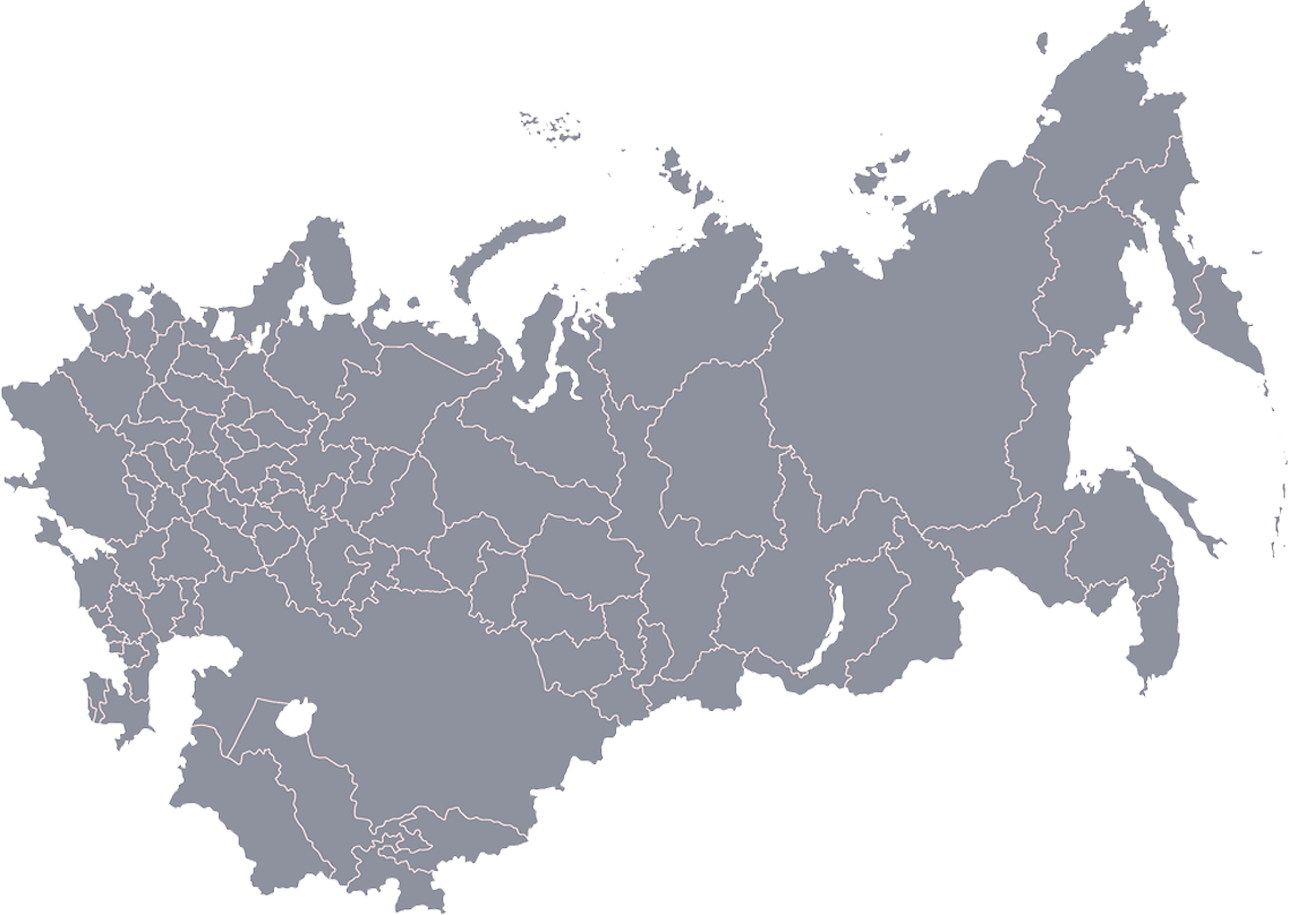
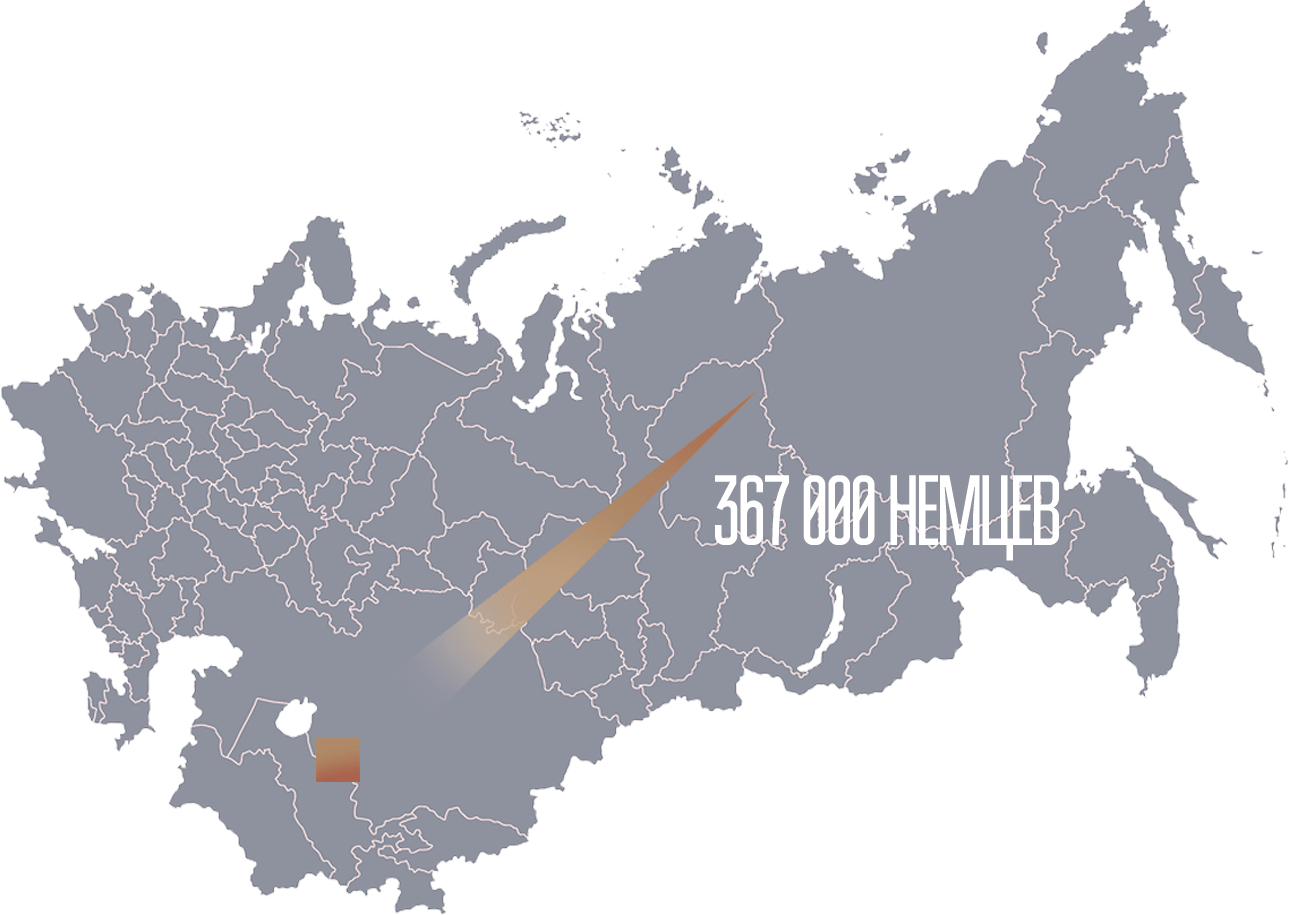
Deportation page animations (#32)
* style changes

* animation prototype

* complete document animation

* map text animation

* apply new images

* calendar animation

* text animation

* fix styles

diff --git a/src/js/deportation-page.js b/src/js/deportation-page.js
@@ -1,8 +1,23 @@
 import debounce from "./debounce";
+import wait from "./wait";
 
 const slidesCount = $('.deportation-page__slide').length;
 let currentSlide = 1;
 const windowHeight = $(window).height();
+
+const mapDocument = $(".deportation-map__document");
+const slidersWrap = $(".deportation-page__sliders-wrap");
+const mapText = $(".deportation-map__text");
+mapText.addClass('deportation-map__text--hidden');
+
+const documentText = $('.deportation-document__text');
+documentText.addClass('deportation-document__text--hidden');
+
+const calendars = $('.calendar');
+calendars.addClass('calendar--hidden');
+
+const calendar28 = $('#calendar28');
+const calendar8 = $('#calendar8');
 
 /**
  * Changes slide on scroll
@@ -21,22 +36,106 @@ function changeSlideOnMouseWheel(event) {
 /**
  * Goes to next slide
  */
-function nextSlide() {
+async function nextSlide() {
   const canGoNext = currentSlide >= 1 && currentSlide <= slidesCount - 1;
   if (canGoNext) {
     currentSlide++;
-    $(".deportation-page__sliders-wrap").css('transform', `translateY(-${windowHeight * (currentSlide - 1)}px)`);
+
+    if (currentSlide === 2) {
+      slidersWrap.css('transform', `translateY(-${windowHeight * (currentSlide - 1)}px)`);
+
+      await wait(500);
+      mapDocument.removeClass('deportation-map__document--not-visible');
+
+      mapDocument.removeClass('deportation-map__document--hidden-top');
+      mapDocument.addClass('deportation-map__document--normal');
+
+      mapText.removeClass('deportation-map__text--hidden');
+      calendar28.removeClass('calendar--hidden');
+      calendar28.removeClass('calendar--not-visible');
+    }
+
+    if (currentSlide === 3) {
+      mapDocument.removeClass('deportation-map__document--normal');
+      mapDocument.addClass('deportation-map__document--hidden-bottom');
+      mapText.addClass('deportation-map__text--hidden');
+      calendar28.addClass('calendar--hidden');
+
+      await wait(1000);
+      calendar28.addClass('calendar--not-visible');
+      mapDocument.addClass('deportation-map__document--not-visible');
+      slidersWrap.css('transform', `translateY(-${windowHeight * (currentSlide - 1)}px)`);
+      await wait(500);
+      calendar8.removeClass('calendar--not-visible');
+      documentText.removeClass('deportation-document__text--hidden');
+      calendar8.removeClass('calendar--hidden');
+      return;
+    }
+
+    if (currentSlide === 4) {
+      calendar8.addClass('calendar--hidden');
+      documentText.addClass('deportation-document__text--hidden');
+
+      await wait(500);
+      calendar8.addClass('calendar--not-visible');
+      slidersWrap.css('transform', `translateY(-${windowHeight * (currentSlide - 1)}px)`);
+      await wait(500);
+
+      return;
+    }
+
+    slidersWrap.css('transform', `translateY(-${windowHeight * (currentSlide - 1)}px)`);
   }
 }
 
 /**
  * Goes to previous slide
  */
-function previousSlide() {
+async function previousSlide() {
   const canGoPrevious = currentSlide >= 2 && currentSlide <= slidesCount;
   if (canGoPrevious) {
     currentSlide--;
-    $(".deportation-page__sliders-wrap").css('transform', `translateY(-${windowHeight * (currentSlide - 1)}px)`);
+
+    if (currentSlide === 1) {
+      mapDocument.addClass('deportation-map__document--hidden-top');
+      mapText.addClass('deportation-map__text--hidden');
+      calendar28.addClass('calendar--hidden');
+      await wait(1000);
+
+      calendar28.addClass('calendar--not-visible');
+      mapDocument.addClass('deportation-map__document--not-visible');
+      mapText.addClass('deportation-map__text--hidden')
+    }
+
+    if (currentSlide === 2) {
+      calendar8.addClass('calendar--hidden');
+      documentText.addClass('deportation-document__text--hidden');
+
+      await wait(500);
+      calendar8.addClass('calendar--not-visible');
+      slidersWrap.css('transform', `translateY(-${windowHeight * (currentSlide - 1)}px)`);
+
+      await wait(500);
+      mapDocument.removeClass('deportation-map__document--not-visible');
+
+      mapDocument.removeClass('deportation-map__document--hidden-bottom');
+      mapDocument.addClass('deportation-map__document--normal');
+      mapText.removeClass('deportation-map__text--hidden');
+      calendar28.removeClass('calendar--not-visible');
+      calendar28.removeClass('calendar--hidden');
+    }
+
+    if (currentSlide === 3) {
+      slidersWrap.css('transform', `translateY(-${windowHeight * (currentSlide - 1)}px)`);
+
+      await wait(500);
+      calendar8.removeClass('calendar--not-visible');
+      calendar8.removeClass('calendar--hidden');
+      documentText.removeClass('deportation-document__text--hidden');
+
+    }
+
+    slidersWrap.css('transform', `translateY(-${windowHeight * (currentSlide - 1)}px)`);
   }
 }
 

diff --git a/src/styles/deportation-page.scss b/src/styles/deportation-page.scss
@@ -5,6 +5,8 @@
   width: 100%;
   height: 100%;
   overflow: hidden;
+  background-image: url('/img/deportation-page/map-bg-1.png');
+  background-size: cover;
 
   &__sliders-wrap {
     transition: transform 500ms ease;
@@ -22,8 +24,7 @@
     position: relative;
     width: 100vw;
     height: 100vh;
-    background-image: url('/img/deportation-page/map-bg-1.png');
-    background-size: cover;
+    background-image: none;
   }
 }
 
@@ -40,15 +41,25 @@
     font-size: 28px;
     padding: 40px;
     background: linear-gradient(to right, #ca9e74, #c9926d);
-    width: 100%;
+    overflow:hidden;
+    white-space:nowrap;
     position: absolute;
+    transition: all 500ms ease;
     top: 0;
     right: -70%;
+
+    &--hidden {
+      width: 0;
+      padding-left: 0;
+      padding-right: 0;
+    }
   }
 }
 
 .deportation-map {
   width: 100%;
+  position: relative;
+  z-index: 100;
 
   &__wrapper {
     width: 70%;
@@ -60,17 +71,48 @@
     font-size: 22px;
     padding: 40px;
     background: linear-gradient(to right, #ca9e74, #c9926d);
-    width: 25%;
+    overflow:hidden;
+    white-space:nowrap;
+    z-index: 110;
     position: absolute;
     bottom: 10%;
     right: 10%;
+    transition: all 300ms ease;
+
+    &--hidden {
+      width: 0;
+      padding-left: 0;
+      padding-right: 0;
+    }
   }
 
   &__document {
+    display: block;
     position: absolute;
-    left: 35%;
-    top: 20%;
+    transition-property: top, transform;
+    transition-duration: 1s;
+    transition-timing-function: ease;
     width: 20%;
+
+    &--not-visible {
+      visibility: hidden;
+    }
+
+    &--normal {
+      left: 27%;
+      top: 4%;
+    }
+
+    &--hidden-top {
+      top: 0;
+      left: 27%;
+      transform: translateY(-100%);
+    }
+
+    &--hidden-bottom {
+      left: 27%;
+      top: 100%;
+    }
   }
 }
 
@@ -92,13 +134,22 @@
 
 .calendar {
   position: absolute;
-  left: -2%;
-  bottom: -2%;
+  left: 0;
+  bottom: 0;
   width: 30%;
   background: url('/img/deportation-page/calendar-bg.png');
   background-size: cover;
+  transition: transform 500ms ease;
 
   &__photo {
     width: 100%;
+  }
+
+  &--hidden {
+    transform: translateY(100%);
+  }
+
+  &--not-visible {
+    visibility: hidden;
   }
 }

diff --git a/src/styles/periods-page.scss b/src/styles/periods-page.scss
@@ -7,7 +7,7 @@
   overflow: hidden;
   display: flex;
   align-items: center;
-  background-position: center center
+  background-position: center center;
 
   &__periods-list {
     padding-left: 170px;

diff --git a/src/js/wait.js b/src/js/wait.js
@@ -1,0 +1,5 @@
+export default async function wait(ms) {
+  return new Promise((resolve) => {
+    setTimeout(resolve, ms);
+  })
+}
